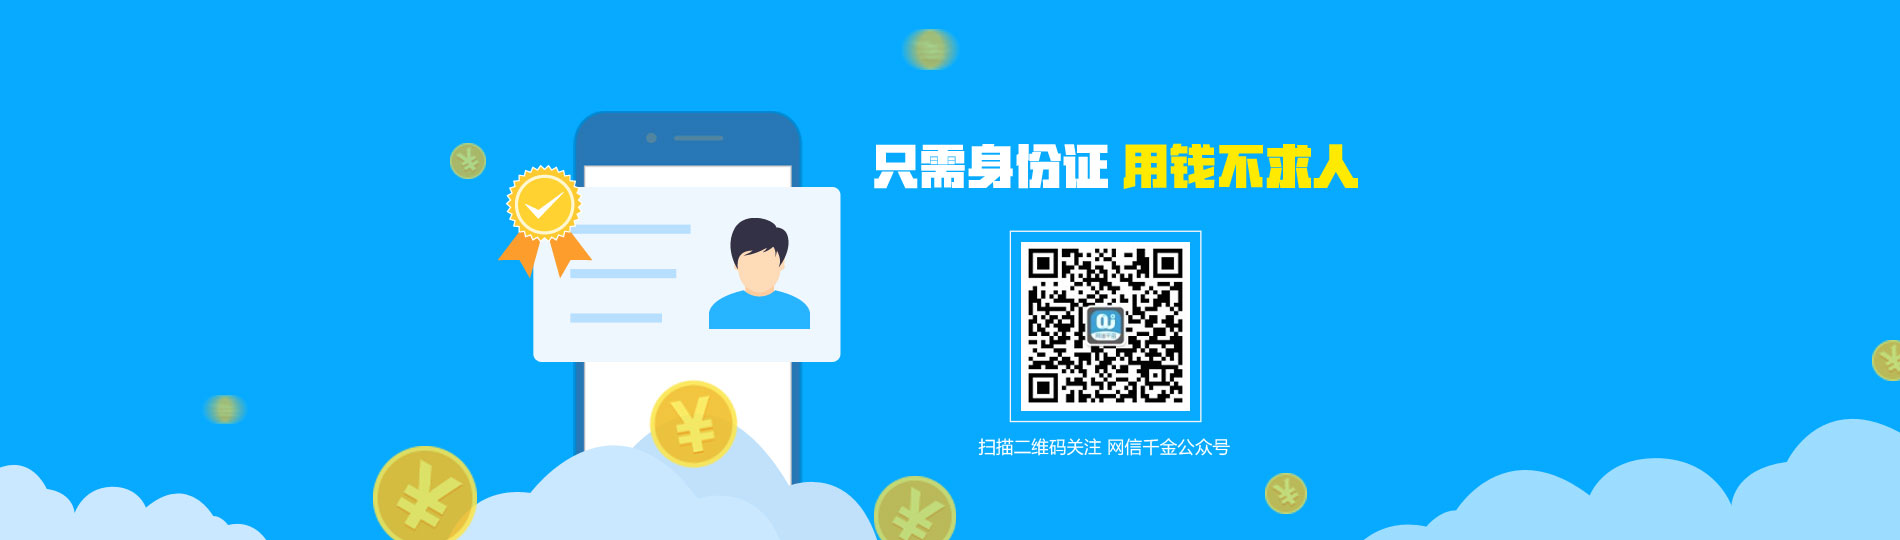
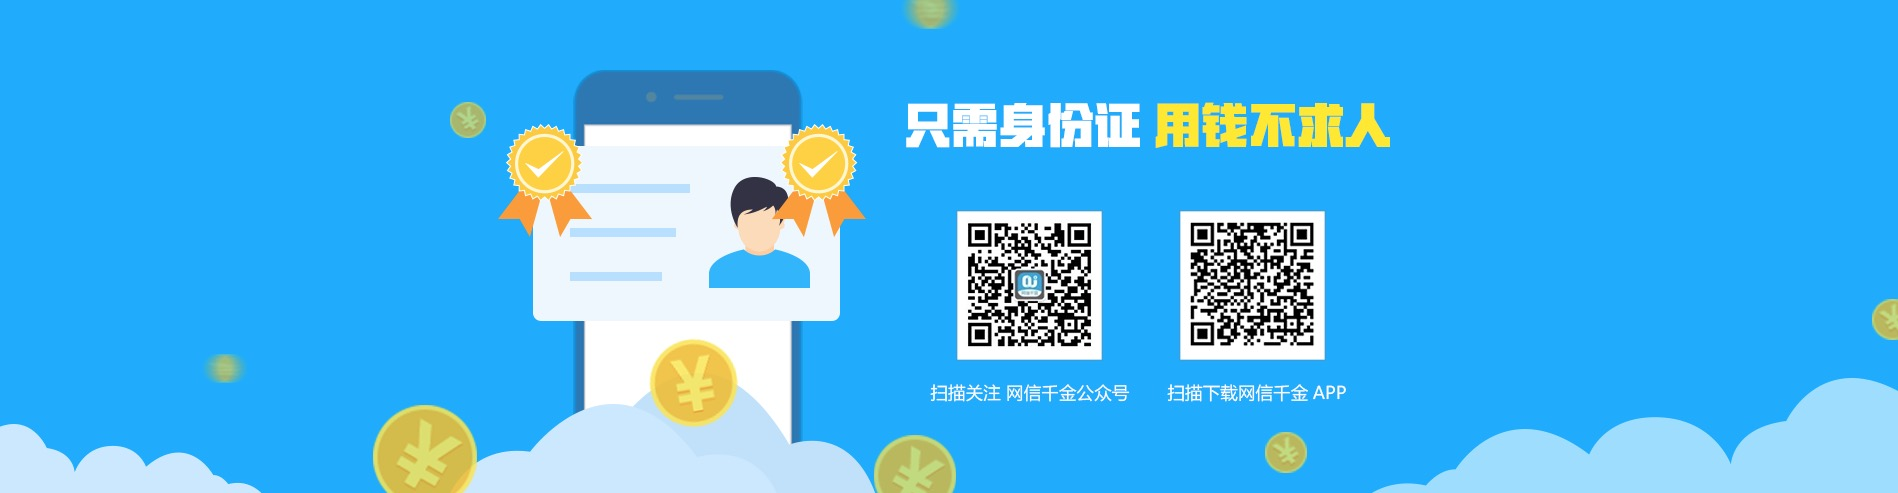
修改首页图片以及跳转页的bug

diff --git a/index/download.html b/index/download.html
@@ -66,8 +66,8 @@
         }
         .alert-img{
             position: absolute;
-            top:3%;
-            right: 3%;
+            top:4%;
+            right: 6%;
             display: none;
             width: 80%;
             margin: 0 auto;
@@ -104,11 +104,17 @@
     window.onload = function(){
         var  _btn = document.getElementsByClassName('download')[0],
                 _alert=document.getElementsByClassName('alert')[0],
-                _alertImg=document.getElementsByClassName('alert-img')[0];
-        _btn.onclick=function(){
-            _alert.style.display='block';
-            _alertImg.style.display='block';
-            console.log(11)
+                _alertImg=document.getElementsByClassName('alert-img')[0],
+                _ua = navigator.userAgent.toLowerCase(),
+                _judge = (_ua.match(/MicroMessenger/i) == "micromessenger");
+        if(!_judge){
+            window.location.href='itms://itunes.apple.com/cn/app/wang-xin-qian-jin-xian-shang/id1157400342?mt=8';
+        }
+        else{
+            _btn.onclick=function(){
+                _alert.style.display='block';
+                    _alertImg.style.display='block';
+            }
         }
     }
 </script>

diff --git a/index/index.html b/index/index.html
@@ -21,10 +21,8 @@
 </div>
 <!--banner-->
 <div class="qj-index">
-	<div class="qj-indexbg" style="position: relative">
-    	<img src="images/qj-indexbg.jpg">
-		<img src="images/qr-code.png" alt="" style="position: absolute ;right:25%;top:44%; height:180px;width: 180px" >
-		<span style="position: absolute;right: 25%;top:80%;color:lightgrey">扫描下载网信千金app</span>
+	<div class="qj-indexbg wrap" >
+    	<img src="images/qj-indexbg.jpg" style="display: block;width: 100%;height: 100%"/>
 	</div>
 </div>
 <!--特点1-->
